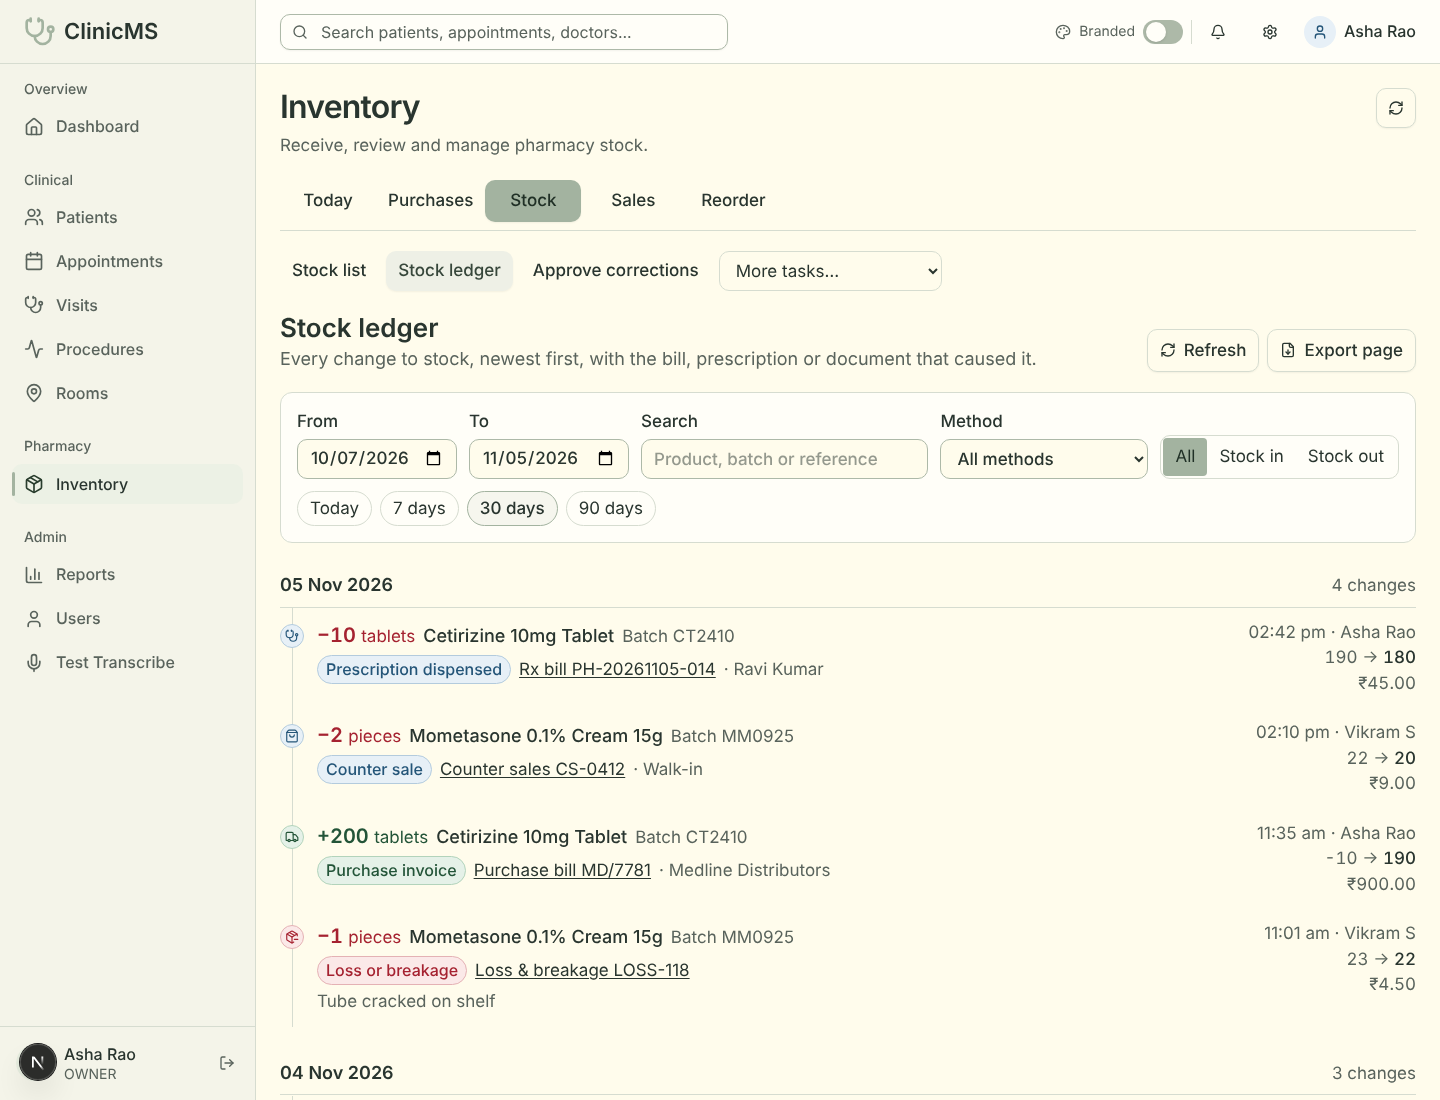
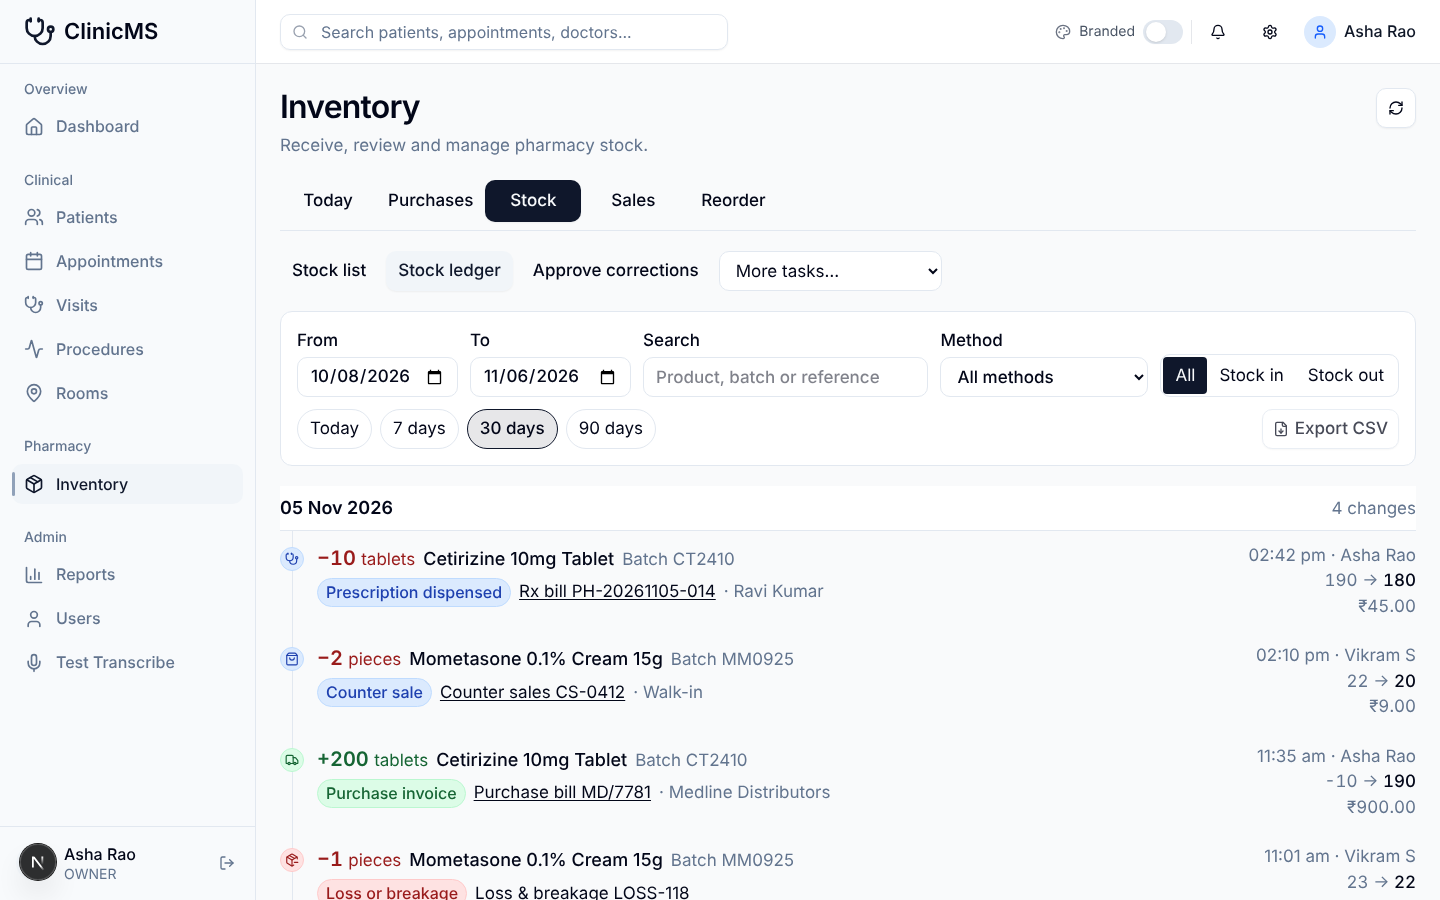
Drop the ledger's duplicate header and refresh button
The workspace tab already names the view and its refresh icon already
broadcasts inventory-workspace-refresh. The ledger now listens for that
event, and Export CSV moves into the filter bar.

Claude-Session: https://claude.ai/code/session_01BsUCJu69L6eKTAtWT6uFw1

diff --git a/frontend/src/components/inventory/InventoryLedger.tsx b/frontend/src/components/inventory/InventoryLedger.tsx
@@ -3,7 +3,7 @@ import { useEffect, useMemo, useState } from "react";
 import type { LucideIcon } from "lucide-react";
 import {
   ArrowLeftRight, Boxes, ClipboardCheck, FileDown, FileSpreadsheet, FileText, Handshake, PackageMinus,
-  PackageOpen, PencilLine, Receipt, RefreshCw, RotateCcw, ShieldAlert, ShoppingBag, Stethoscope, Truck, Undo2,
+  PackageOpen, PencilLine, Receipt, RotateCcw, ShieldAlert, ShoppingBag, Stethoscope, Truck, Undo2,
 } from "lucide-react";
 import { Button } from "@/components/ui/button";
 import { LoadingSkeleton } from "@/components/ui/skeleton";
@@ -86,7 +86,8 @@ function documentLabel(doc: LedgerDocument): string {
  * The stock ledger MUST show every movement newest first, grouped by clinic day, with its signed
  * change, recorded balance, source method, counterparty and actor. Range, method, direction,
  * search and page MUST live in the workspace URL so item detail and browser back return to the
- * same view. Loading, failed and empty reads MUST stay distinct, and a truncated range MUST say so.
+ * same view. The workspace refresh action MUST reload the ledger. Loading, failed and empty reads
+ * MUST stay distinct, and a truncated range MUST say so.
  */
 export function InventoryLedger({ query, navigate, onDocument, onInvoice, onItem }: {
   query: Record<string, string>;
@@ -113,6 +114,12 @@ export function InventoryLedger({ query, navigate, onDocument, onInvoice, onItem
   if (query.ledgerSearch) params.set("search", query.ledgerSearch);
   const timeline = useInventoryResource<Timeline>(`/inventory/workspace/timeline?${params}`);
   const data = timeline.data;
+  const { reload } = timeline;
+  useEffect(() => {
+    const refresh = () => void reload();
+    window.addEventListener("inventory-workspace-refresh", refresh);
+    return () => window.removeEventListener("inventory-workspace-refresh", refresh);
+  }, [reload]);
 
   const days = useMemo(() => {
     const groups: { day: string; entries: Entry[] }[] = [];
@@ -139,18 +146,7 @@ export function InventoryLedger({ query, navigate, onDocument, onInvoice, onItem
     doc.type === "PURCHASE_INVOICE" || doc.type === "PHARMACY_INVOICE" || (doc.type === "WORKFLOW" && !!workflowKinds[doc.kind]);
 
   return (
-    <section aria-labelledby="ledger-heading" className="space-y-5">
-      <header className="flex flex-wrap items-end justify-between gap-3">
-        <div>
-          <h2 id="ledger-heading" className="text-2xl font-semibold">Stock ledger</h2>
-          <p className="text-muted-foreground">Every change to stock, newest first, with the bill, prescription or document that caused it.</p>
-        </div>
-        <div className="flex gap-2">
-          <Button variant="outline" onClick={() => void timeline.reload()}><RefreshCw className="h-4 w-4" /> Refresh</Button>
-          <Button variant="outline" disabled={!data?.rows.length} onClick={exportRows}><FileDown className="h-4 w-4" /> Export page</Button>
-        </div>
-      </header>
-
+    <section aria-label="Stock ledger" className="space-y-5">
       <div className="grid grid-cols-2 gap-3 rounded-lg border bg-card p-4 md:grid-cols-[auto_auto_minmax(14rem,1fr)_minmax(10rem,13rem)_auto] md:items-end">
         <label className="grid gap-1 text-sm font-medium">From
           <input type="date" className={inputClass} value={from} max={to} onChange={e => e.target.value && navigate({ ledgerFrom: e.target.value, ledgerPage: "" })} />
@@ -183,6 +179,9 @@ export function InventoryLedger({ query, navigate, onDocument, onInvoice, onItem
                 onClick={() => navigate({ ledgerFrom: daysBefore(today, n), ledgerTo: today, ledgerPage: "" })}>{label}</button>
             );
           })}
+          <Button size="sm" variant="outline" className="ml-auto" disabled={!data?.rows.length} onClick={exportRows}>
+            <FileDown className="h-4 w-4" /> Export CSV
+          </Button>
         </div>
       </div>
 

diff --git a/frontend/__tests__/inventory/InventoryLedger.test.tsx b/frontend/__tests__/inventory/InventoryLedger.test.tsx
@@ -68,3 +68,11 @@ it('keeps a failed read distinct from an empty ledger and warns when truncated',
   expect(await screen.findByText('No stock changes match these filters')).toBeInTheDocument();
   expect(screen.getByRole('status')).toHaveTextContent('more than 10,000 movements');
 });
+
+it('reloads when the workspace refresh action fires', async () => {
+  (apiClient.get as jest.Mock).mockResolvedValue(timeline);
+  render(<InventoryLedger {...props()} />);
+  await screen.findByLabelText('Removed 10 tablets');
+  window.dispatchEvent(new CustomEvent('inventory-workspace-refresh'));
+  await waitFor(() => expect(apiClient.get).toHaveBeenCalledTimes(2));
+});
